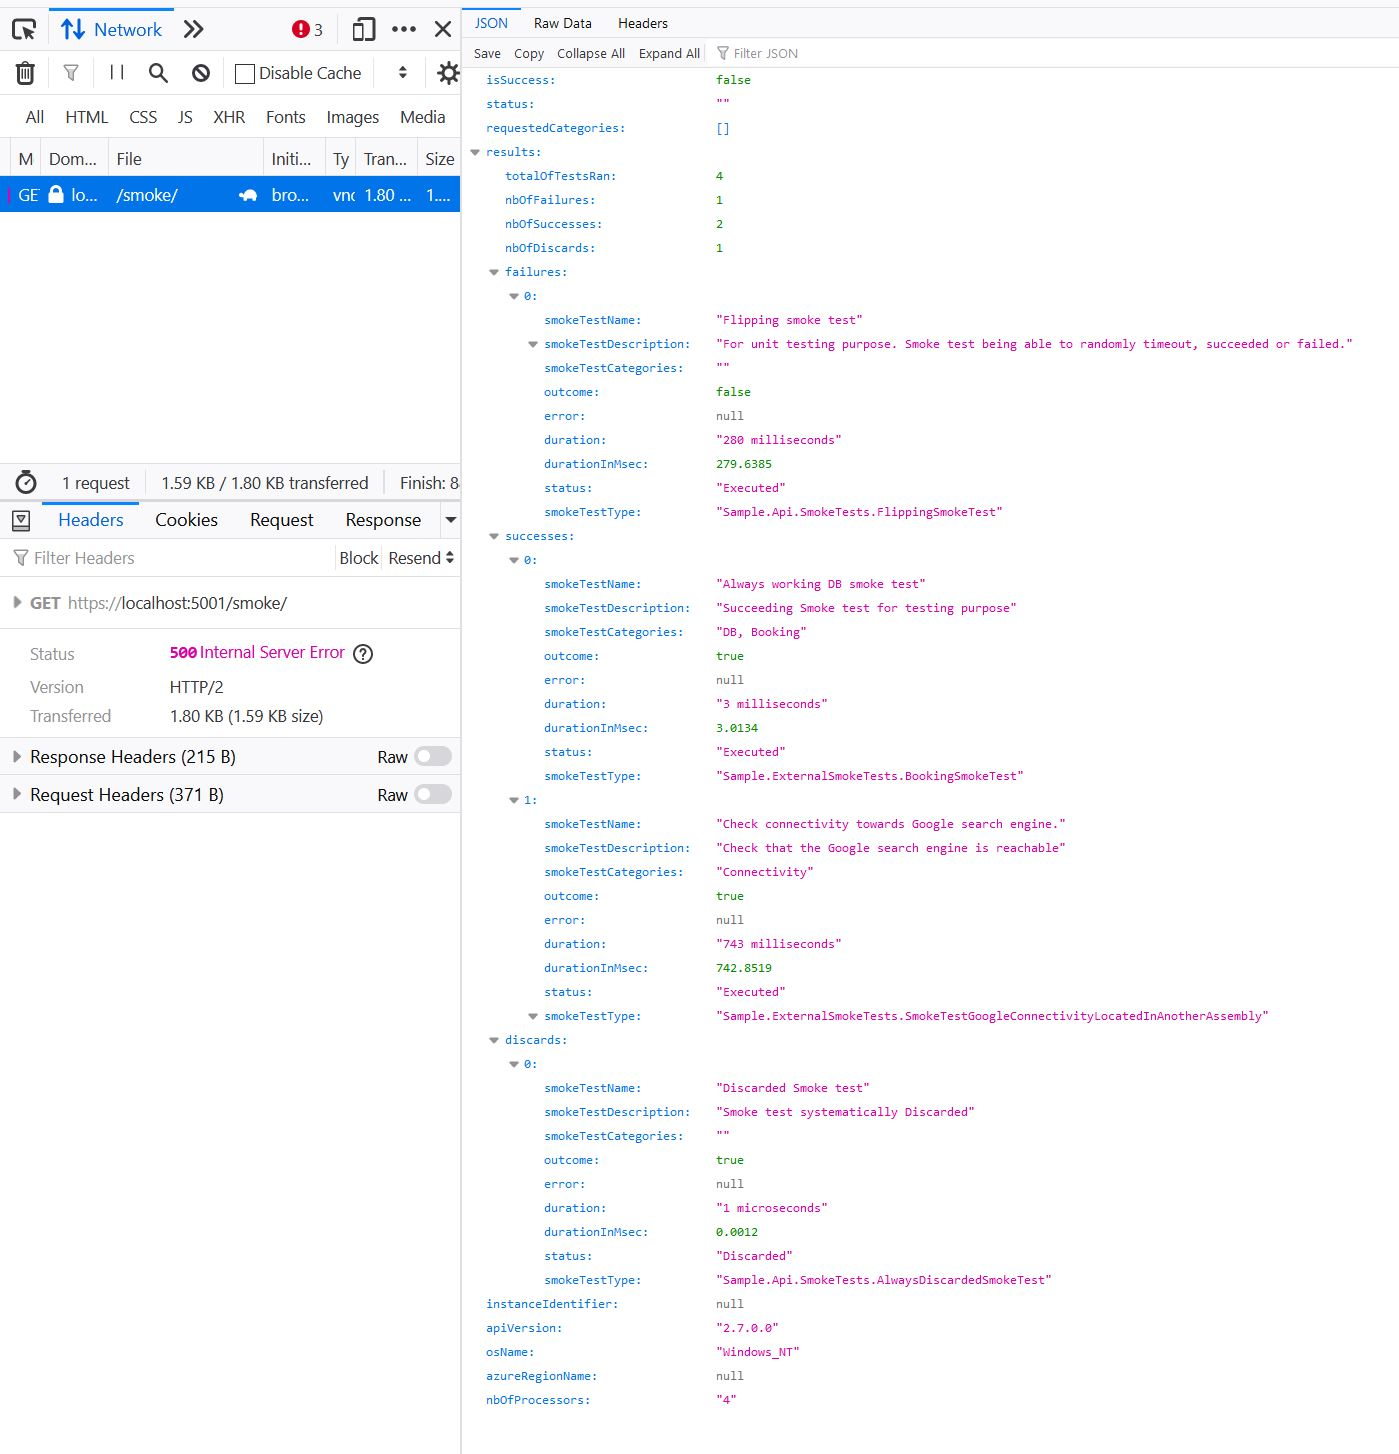
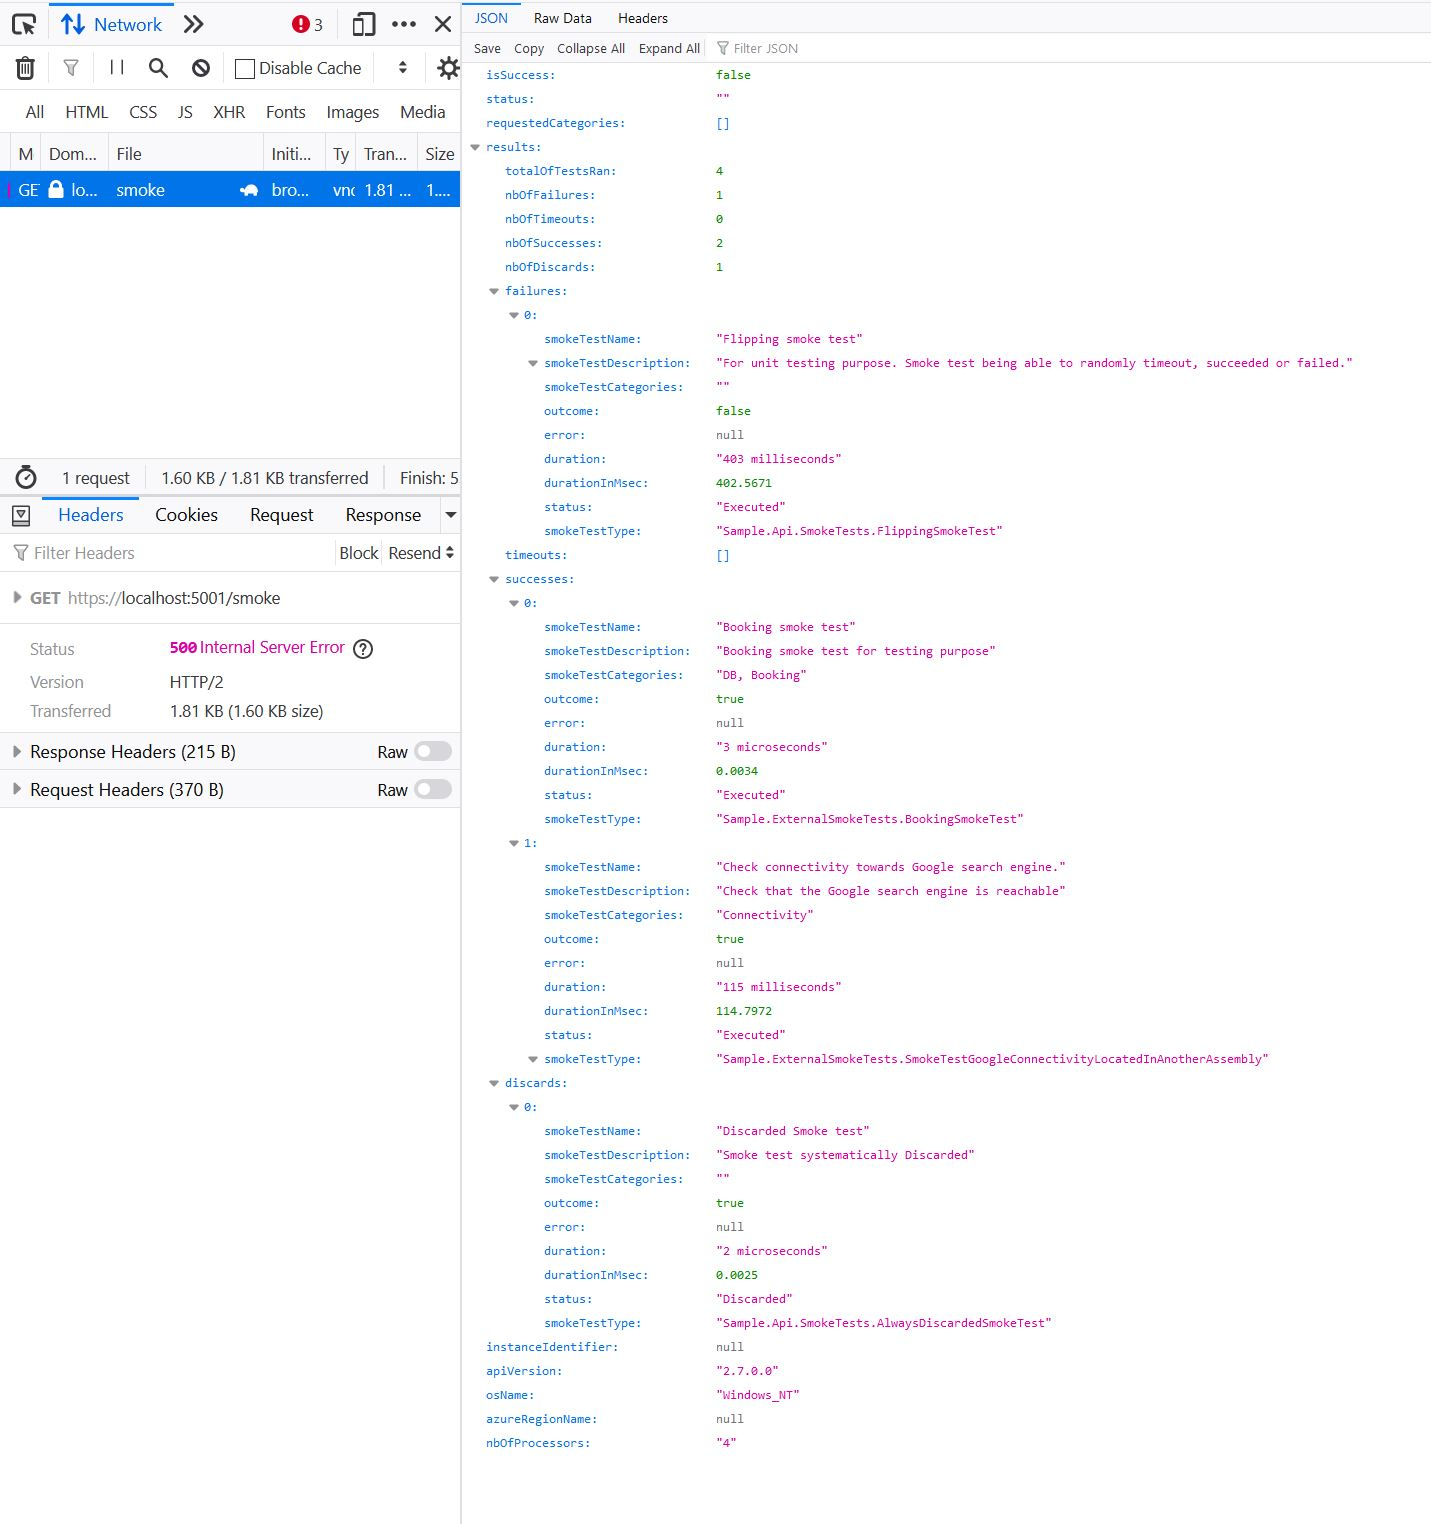
Add a "Timeout" status and category for the reporting. Ensure the type fullname is returned in all cases (Success, Failure, timeout, Discard)

Changed region(s): [[0.0, 0.0, 0.9528, 0.9904], [0.2459, 0.4642, 0.3381, 0.5571]]

diff --git a/SmokeMe.Tests/Acceptance/SmokeControllerShould.cs b/SmokeMe.Tests/Acceptance/SmokeControllerShould.cs
@@ -8,6 +8,7 @@ using NFluent;
 using NSubstitute;
 using NUnit.Framework;
 using Sample.ExternalSmokeTests;
+using Sample.ExternalSmokeTests.Utilities;
 using SmokeMe.Controllers;
 using SmokeMe.Infra;
 using SmokeMe.Tests.Helpers;
@@ -78,11 +79,12 @@ namespace SmokeMe.Tests.Acceptance
             Check.That(reportDto.Status).IsEqualTo("One or more smoke tests have timeout (global timeout is: 5 seconds)");
             Check.That(reportDto.Results.TotalOfTestsRan).IsEqualTo(2);
             Check.That(reportDto.Results.NbOfSuccesses).IsEqualTo(1);
-            Check.That(reportDto.Results.NbOfFailures).IsEqualTo(1);
+            Check.That(reportDto.Results.NbOfFailures).IsEqualTo(0);
+            Check.That(reportDto.Results.NbOfTimeouts).IsEqualTo(1);
 
-            Check.That(reportDto.Results.Failures[0].Outcome).IsFalse();
-            Check.That(reportDto.Results.Failures[0].Duration).IsEqualTo("timeout");
-            Check.That(reportDto.Results.Failures[0].DurationInMsec).IsNull();
+            Check.That(reportDto.Results.Timeouts[0].Outcome).IsFalse();
+            Check.That(reportDto.Results.Timeouts[0].Duration).IsEqualTo("timeout");
+            Check.That(reportDto.Results.Timeouts[0].DurationInMsec).IsNull();
 
             Check.That(reportDto.Results.Successes[0].Outcome).IsTrue();
             Check.That(reportDto.Results.Successes[0].DurationInMsec.Value).IsLessThan(TimeSpan.FromSeconds(2.0).TotalMilliseconds + acceptableDeltaInMsec);
@@ -150,7 +152,7 @@ namespace SmokeMe.Tests.Acceptance
         public async Task Only_Execute_corresponding_SmokeTest_when_specifying_one_Category()
         {
             var configuration = Stub.AConfiguration(true);
-            var serviceProvider = Substitute.For<IServiceProvider>();
+            var serviceProvider = Stub.ACompleteServiceProvider(configuration, new FeatureToggle("featureToggledSmokeTest", false), new FeatureToggle("mustTimeOut", false));
             var smokeTestAutoFinder = new SmokeTestAutoFinder(serviceProvider);
 
             var controller = new SmokeController(configuration, serviceProvider, smokeTestAutoFinder);
@@ -163,7 +165,7 @@ namespace SmokeMe.Tests.Acceptance
             Check.That(reportDto.Results.TotalOfTestsRan).IsEqualTo(1);
 
             // Always positive smoke test after a delay
-            Check.That(reportDto.Results.Successes[0].SmokeTestName).IsEqualTo("Always working DB smoke test");
+            Check.That(reportDto.Results.Successes[0].SmokeTestName).IsEqualTo("Booking smoke test");
             Check.That(reportDto.Results.Successes[0].Outcome).IsTrue();
         }
 
@@ -171,7 +173,9 @@ namespace SmokeMe.Tests.Acceptance
         public async Task Only_Execute_SmokeTest_with_Specified_Categories()
         {
             var configuration = Stub.AConfiguration(true);
-            var serviceProvider = Substitute.For<IServiceProvider>();
+            var serviceProvider = Stub.ACompleteServiceProvider(configuration);
+            serviceProvider.GetService(typeof(IConfiguration)).Returns(configuration);
+
             var smokeTestAutoFinder = new SmokeTestAutoFinder(serviceProvider);
 
             var controller = new SmokeController(configuration, serviceProvider, smokeTestAutoFinder);
@@ -187,7 +191,7 @@ namespace SmokeMe.Tests.Acceptance
             Check.That(reportDto.Results.Failures[0].SmokeTestName).IsEqualTo("Failing on purpose");
             Check.That(reportDto.Results.Failures[0].Outcome).IsFalse();
 
-            Check.That(reportDto.Results.Successes[0].SmokeTestName).IsEqualTo("Always working DB smoke test");
+            Check.That(reportDto.Results.Successes[0].SmokeTestName).IsEqualTo("Booking smoke test");
             Check.That(reportDto.Results.Successes[0].Outcome).IsTrue();
         }
 
@@ -195,7 +199,7 @@ namespace SmokeMe.Tests.Acceptance
         public async Task Return_NotImplemented_501_with_proper_didactic_message_when_specifying_undeclared_Category()
         {
             var configuration = Stub.AConfiguration(true);
-            var serviceProvider = Substitute.For<IServiceProvider>();
+            var serviceProvider = Stub.ACompleteServiceProvider(configuration);
             var smokeTestAutoFinder = new SmokeTestAutoFinder(serviceProvider);
 
             var controller = new SmokeController(configuration, serviceProvider, smokeTestAutoFinder);
@@ -214,7 +218,7 @@ namespace SmokeMe.Tests.Acceptance
         public async Task Return_NotImplemented_501_with_proper_didactic_message_when_specifying_multiple_undeclared_Categories()
         {
             var configuration = Stub.AConfiguration(true);
-            var serviceProvider = Substitute.For<IServiceProvider>();
+            var serviceProvider = Stub.ACompleteServiceProvider(configuration);
             var smokeTestAutoFinder = new SmokeTestAutoFinder(serviceProvider);
 
             var controller = new SmokeController(configuration, serviceProvider, smokeTestAutoFinder);
@@ -232,7 +236,7 @@ namespace SmokeMe.Tests.Acceptance
         public async Task Not_run_SmokeTests_with_Ignore_Attribute()
         {
             var configuration = Stub.AConfiguration(true);
-            var serviceProvider = Substitute.For<IServiceProvider>();
+            var serviceProvider = Stub.ACompleteServiceProvider(configuration);
             var smokeTestAutoFinder = new SmokeTestAutoFinder(serviceProvider);
 
             var controller = new SmokeController(configuration, serviceProvider, smokeTestAutoFinder);
@@ -250,7 +254,7 @@ namespace SmokeMe.Tests.Acceptance
         public async Task Publish_the_executed_SmokeTestCategories_when_specified_by_the_client()
         {
             var configuration = Stub.AConfiguration(true);
-            var serviceProvider = Substitute.For<IServiceProvider>();
+            var serviceProvider = Stub.ACompleteServiceProvider(configuration);
             var smokeTestAutoFinder = new SmokeTestAutoFinder(serviceProvider);
 
             var controller = new SmokeController(configuration, serviceProvider, smokeTestAutoFinder);
@@ -268,7 +272,9 @@ namespace SmokeMe.Tests.Acceptance
         public async Task Publish_the_Categories_of_every_executed_SmokeTest_when_existing()
         {
             var configuration = Stub.AConfiguration(true);
-            var serviceProvider = Substitute.For<IServiceProvider>();
+            var serviceProvider = Stub.ACompleteServiceProvider(configuration);
+            serviceProvider.GetService(typeof(IConfiguration)).Returns(configuration);
+
             var smokeTestAutoFinder = new SmokeTestAutoFinder(serviceProvider);
 
             var controller = new SmokeController(configuration, serviceProvider, smokeTestAutoFinder);
@@ -281,34 +287,41 @@ namespace SmokeMe.Tests.Acceptance
             Check.That(reportDto.Results.TotalOfTestsRan).IsEqualTo(6);
             Check.That(reportDto.RequestedCategories).IsEmpty();
 
-            Check.That(reportDto.Results.Failures.Select(x => x.SmokeTestName)).ContainsExactly("Failing on purpose", "Feature toggled test", "Throwing exception after a delay", "Check connectivity towards Google search engine.");
-            Check.That(reportDto.Results.Successes.Select(x => x.SmokeTestName)).ContainsExactly("Always positive smoke test after a delay", "Always working DB smoke test");
-            
-            Check.That(reportDto.Results.Failures.Select(x => x.SmokeTestCategories)).ContainsExactly("FailingSaMere", "", "", "Connectivity");
+            Check.That(reportDto.Results.Failures.Select(x => x.SmokeTestName)).ContainsExactly("Failing on purpose", "Throwing exception after a delay", "Check connectivity towards Google search engine.");
+            Check.That(reportDto.Results.Successes.Select(x => x.SmokeTestName)).ContainsExactly("Always positive smoke test after a delay", "Booking smoke test");
+            Check.That(reportDto.Results.Discards.Select(x => x.SmokeTestName)).ContainsExactly("Feature toggled test");
+
+            Check.That(reportDto.Results.Failures.Select(x => x.SmokeTestCategories)).ContainsExactly("FailingSaMere", "", "Connectivity");
             Check.That(reportDto.Results.Successes.Select(x => x.SmokeTestCategories)).ContainsExactly("Tests", "DB, Booking");
+            Check.That(reportDto.Results.Discards.Select(x => x.SmokeTestCategories)).ContainsExactly("");
         }
 
         [Test]
-        public async Task Publish_the_Type_FullName_of_every_SmokeTest()
+        public async Task Publish_the_Type_FullName_of_every_SmokeTest_even_when_timeout()
         {
-            var configuration = Stub.AConfiguration(true);
-            var serviceProvider = Stub.FeatureToggles(new FeatureToggle("featureToggledSmokeTest", false));
+            var configuration = Stub.AConfiguration(true, globalTimeoutInMsec: 500);
+            var serviceProvider = Stub.ACompleteServiceProvider(configuration, new FeatureToggle("featureToggledSmokeTest", false), new FeatureToggle("mustTimeOut", true));
             var smokeTestAutoFinder = new SmokeTestAutoFinder(serviceProvider);
 
             var controller = new SmokeController(configuration, serviceProvider, smokeTestAutoFinder);
 
             var response = await controller.ExecuteSmokeTests();
 
-            response.CheckIsError<SmokeTestsSessionReportDto>(HttpStatusCode.InternalServerError);
+            response.CheckIsError<SmokeTestsSessionReportDto>(HttpStatusCode.GatewayTimeout);
             var reportDto = response.ExtractValue<SmokeTestsSessionReportDto>();
 
             Check.That(reportDto.Results.TotalOfTestsRan).IsEqualTo(6);
             Check.That(reportDto.Results.NbOfFailures).IsEqualTo(3);
-            Check.That(reportDto.Results.NbOfSuccesses).IsEqualTo(2);
+            Check.That(reportDto.Results.NbOfSuccesses).IsEqualTo(1);
             Check.That(reportDto.Results.NbOfDiscards).IsEqualTo(1);
+            Check.That(reportDto.Results.NbOfTimeouts).IsEqualTo(1);
+
+            /// Booking smoke test must have timeout
+            Check.That(reportDto.Results.Timeouts[0].SmokeTestType).IsEqualTo(typeof(BookingSmokeTest).FullName);
+            Check.That(reportDto.Results.Timeouts[0].Status).IsEqualTo(Status.Timeout);
 
             Check.That(reportDto.Results.Failures.Select(x => x.SmokeTestType)).ContainsExactly(typeof(AlwaysFailingSmokeTest).FullName, typeof(SmokeTestThrowingAnAccessViolationException).FullName, typeof(SmokeTestGoogleConnectivityLocatedInAnotherAssembly).FullName);
-            Check.That(reportDto.Results.Successes.Select(x => x.SmokeTestType)).ContainsExactly(typeof(AlwaysPositiveSmokeTest).FullName, typeof(BookingSmokeTest).FullName);
+            Check.That(reportDto.Results.Successes.Select(x => x.SmokeTestType)).ContainsExactly(typeof(AlwaysPositiveSmokeTest).FullName);
             Check.That(reportDto.Results.Discards.Select(x => x.SmokeTestType)).ContainsExactly(typeof(FeatureToggledAlwaysPositiveSmokeTest).FullName);
         }
 
@@ -316,7 +329,7 @@ namespace SmokeMe.Tests.Acceptance
         public async Task Be_able_to_discard_Test_execution_when_Indicated_with_MustBeDiscarded_set_to_true()
         {
             var configuration = Stub.AConfiguration(true);
-            var serviceProvider = Stub.FeatureToggles(new FeatureToggle("featureToggledSmokeTest", false));
+            var serviceProvider = Stub.ACompleteServiceProvider(configuration, new FeatureToggle("featureToggledSmokeTest", false), new FeatureToggle("mustTimeOut", false));
 
             var smokeTestProvider = Stub.ASmokeTestProvider(new AlwaysPositiveSmokeTest(TimeSpan.FromMilliseconds(50)).WithoutCategory(), new FeatureToggledAlwaysPositiveSmokeTest(serviceProvider.GetService(typeof(IToggleFeatures)) as IToggleFeatures, TimeSpan.FromMilliseconds(50)).WithoutCategory());
 
@@ -339,7 +352,7 @@ namespace SmokeMe.Tests.Acceptance
 
         private static void ForceTheLoadingOfTheSampleExternalSmokeTestsAssembly()
         {
-            new BookingSmokeTest();
+            new BookingSmokeTest(Substitute.For<IToggleFeatures>(), Substitute.For<IConfiguration>());
         }
     }
 }

diff --git a/SmokeMe/SmokeTestResultWithMetaData.cs b/SmokeMe/SmokeTestResultWithMetaData.cs
@@ -49,8 +49,10 @@ namespace SmokeMe
         /// <param name="smokeTestDescription">Description of the smoke test.</param>
         /// <param name="smokeTestCategories"></param>
         /// <param name="discarded"></param>
+        /// <param name="smokeTestType"></param>
+        /// <param name="status"></param>
         private SmokeTestResultWithMetaData(SmokeTestResult smokeTestResult, TimeSpan? duration, string smokeTestName, string smokeTestDescription,
-            string[] smokeTestCategories, bool? discarded, string smokeTestType)
+            string[] smokeTestCategories, bool? discarded, string smokeTestType, Status? status)
         {
             SmokeTestResult = smokeTestResult;
             Duration = duration;
@@ -59,18 +61,25 @@ namespace SmokeMe
             SmokeTestCategories = smokeTestCategories;
             SmokeTestType = smokeTestType;
 
-            if (discarded.HasValue && discarded.Value == true)
+            if (status.HasValue && status== Status.Timeout)
             {
-                Status = Status.Discarded;
+                Status = Status.Timeout;
             }
             else
             {
-                Status = Status.Executed;
+                if (discarded.HasValue && discarded.Value == true)
+                {
+                    Status = Status.Discarded;
+                }
+                else
+                {
+                    Status = Status.Executed;
+                }
             }
         }
 
         public SmokeTestResultWithMetaData(SmokeTestResult smokeTestResult, TimeSpan? duration, SmokeTestInstanceWithMetaData smokeTestInstanceWithMetaData, string smokeTestType,
-            bool? discarded = null) : this(smokeTestResult, duration, smokeTestInstanceWithMetaData.SmokeTest.SmokeTestName, smokeTestInstanceWithMetaData.SmokeTest.Description, smokeTestInstanceWithMetaData.Categories, discarded, smokeTestType)
+            bool? discarded = null, Status? status = null) : this(smokeTestResult, duration, smokeTestInstanceWithMetaData.SmokeTest.SmokeTestName, smokeTestInstanceWithMetaData.SmokeTest.Description, smokeTestInstanceWithMetaData.Categories, discarded, smokeTestType, status)
         {
         }
 

diff --git a/Samples/Sample.ExternalSmokeTests/BookingSmokeTest.cs b/Samples/Sample.ExternalSmokeTests/BookingSmokeTest.cs
@@ -1,4 +1,7 @@
-using System.Threading.Tasks;
+using System;
+using System.Threading.Tasks;
+using Microsoft.Extensions.Configuration;
+using Sample.ExternalSmokeTests.Utilities;
 using SmokeMe;
 
 namespace Sample.ExternalSmokeTests
@@ -7,12 +10,27 @@ namespace Sample.ExternalSmokeTests
     [Category("Booking")]
     public class BookingSmokeTest : SmokeTest
     {
-        public override string SmokeTestName => "Always working DB smoke test";
-        public override string Description => "Succeeding Smoke test for testing purpose";
+        private readonly IToggleFeatures _featureToggles;
+        private readonly IConfiguration _configuration;
+        public override string SmokeTestName => "Booking smoke test";
+        public override string Description => "Booking smoke test for testing purpose";
 
-        public override Task<SmokeTestResult> Scenario()
+        public BookingSmokeTest(IToggleFeatures featureToggles, IConfiguration configuration)
         {
-            return Task.FromResult(new SmokeTestResult(true));
+            _featureToggles = featureToggles;
+            _configuration = configuration;
+        }
+
+        public override async Task<SmokeTestResult> Scenario()
+        {
+            if (_featureToggles.IsEnabled("mustTimeOut"))
+            {
+                var timeoutInMsec = int.Parse(_configuration[Constants.GlobaltimeoutinmsecConfigurationKey]);
+
+                await Task.Delay(TimeSpan.FromMilliseconds(timeoutInMsec + 100));
+            }
+
+            return new SmokeTestResult(true);
         }
     }
 }

diff --git a/SmokeMe.Tests/Helpers/Stub.cs b/SmokeMe.Tests/Helpers/Stub.cs
@@ -3,6 +3,7 @@ using Diverse;
 using Microsoft.Extensions.Configuration;
 using NSubstitute;
 using Sample.Api.FakeDomain;
+using Sample.ExternalSmokeTests.Utilities;
 using SmokeMe.Tests.Acceptance;
 
 namespace SmokeMe.Tests.Helpers
@@ -51,7 +52,7 @@ namespace SmokeMe.Tests.Helpers
             return serviceProvider;
         }
 
-        public static IServiceProvider FeatureToggles(params FeatureToggle[] featureToggles)
+        private static IServiceProvider FeatureToggles(params FeatureToggle[] featureToggles)
         {
             var serviceProvider = Substitute.For<IServiceProvider>();
             var toggleFeatures = Substitute.For<IToggleFeatures>();
@@ -62,6 +63,15 @@ namespace SmokeMe.Tests.Helpers
             
             serviceProvider.GetService(typeof(IToggleFeatures)).Returns(toggleFeatures);
             return serviceProvider;
+        }
+
+        public static IServiceProvider ACompleteServiceProvider(IConfiguration configuration, params FeatureToggle[] featureToggles)
+        {
+            var aCompleteServiceProvider = Stub.FeatureToggles(featureToggles);
+
+            aCompleteServiceProvider.GetService(typeof(IConfiguration)).Returns(configuration);
+
+            return aCompleteServiceProvider;
         }
     }
 }

diff --git a/SmokeMe/Infra/SmokeTestsResults.cs b/SmokeMe/Infra/SmokeTestsResults.cs
@@ -9,12 +9,12 @@ namespace SmokeMe.Infra
         public int TotalOfTestsRan => _allResults.Length;
 
         public int NbOfFailures => Failures.Length;
-
+        public int NbOfTimeouts => Timeouts.Length;
         public int NbOfSuccesses => Successes.Length;
-
         public int NbOfDiscards => Discards.Length;
 
-        public SmokeTestResultWithMetaDataDto[] Failures => _allResults.Where(x => x.Outcome == false).ToArray();
+        public SmokeTestResultWithMetaDataDto[] Failures => _allResults.Where(x => x.Outcome == false && x.Status != Status.Timeout).ToArray();
+        public SmokeTestResultWithMetaDataDto[] Timeouts => _allResults.Where(x => x.Outcome == false && x.Status == Status.Timeout).ToArray();
         public SmokeTestResultWithMetaDataDto[] Successes => _allResults.Where(x => x.Outcome == true && x.Status != Status.Discarded).ToArray();
         public SmokeTestResultWithMetaDataDto[] Discards => _allResults.Where(x => x.Outcome == true && x.Status == Status.Discarded).ToArray();
 

diff --git a/SmokeMe/SmokeTestRunner.cs b/SmokeMe/SmokeTestRunner.cs
@@ -59,7 +59,7 @@ namespace SmokeMe
 
             var timeoutSmokeTests = smokeTestsWithMetaData.Where(x => !completedIdentifiers.Contains(x.SmokeTestIdentifier.Value));
 
-            var timeoutResultWithSomeMetaData = timeoutSmokeTests.Select(x => new SmokeTestResultWithMetaData(new SmokeTestResult(false), null, x, smokeTestType:x.GetType().Name));
+            var timeoutResultWithSomeMetaData = timeoutSmokeTests.Select(x => new SmokeTestResultWithMetaData(new SmokeTestResult(false), null, x, smokeTestType:x.SmokeTest.GetType().FullName, status: Status.Timeout));
 
             var timeoutAndCompletedResultsWithMetadata = timeoutResultWithSomeMetaData.Concat(completedTestsResultWithMetaData).ToArray();
 

diff --git a/Samples/Sample.ExternalSmokeTests/Utilities/AlwaysDisabledToggleFeatureManager.cs b/Samples/Sample.ExternalSmokeTests/Utilities/AlwaysDisabledToggleFeatureManager.cs
@@ -1,0 +1,10 @@
+namespace Sample.ExternalSmokeTests.Utilities
+{
+    public class AlwaysDisabledToggleFeatureManager : IToggleFeatures
+    {
+        public bool IsEnabled(string featureName)
+        {
+            return false;
+        }
+    }
+}

diff --git a/Samples/Sample.31.Api/Startup.cs b/Samples/Sample.31.Api/Startup.cs
@@ -43,6 +43,8 @@ namespace Sample.Api
 
             services.AddVersioning();
 
+            services.AddTransient<IToggleFeatures, AlwaysDisabledToggleFeatureManager>();
+
             Fuzzer.Log +=obj =>
             {
             };

diff --git a/SmokeMe.Tests/SmokeTests/FeatureToggledAlwaysPositiveSmokeTest.cs b/SmokeMe.Tests/SmokeTests/FeatureToggledAlwaysPositiveSmokeTest.cs
@@ -1,6 +1,7 @@
 using System;
 using System.Threading;
 using System.Threading.Tasks;
+using Sample.ExternalSmokeTests.Utilities;
 using SmokeMe.Tests.Helpers;
 
 namespace SmokeMe.Tests.SmokeTests

diff --git a/Samples/Sample.ExternalSmokeTests/Utilities/IToggleFeatures.cs b/Samples/Sample.ExternalSmokeTests/Utilities/IToggleFeatures.cs
@@ -1,4 +1,4 @@
-namespace SmokeMe.Tests.Helpers
+namespace Sample.ExternalSmokeTests.Utilities
 {
     public interface IToggleFeatures
     {

diff --git a/Samples/Sample.ExternalSmokeTests/Utilities/FeatureToggle.cs b/Samples/Sample.ExternalSmokeTests/Utilities/FeatureToggle.cs
@@ -1,4 +1,4 @@
-namespace SmokeMe.Tests.Helpers
+namespace Sample.ExternalSmokeTests.Utilities
 {
     public class FeatureToggle
     {

diff --git a/SmokeMe/Status.cs b/SmokeMe/Status.cs
@@ -3,6 +3,7 @@ namespace SmokeMe
     public enum Status
     {
         Executed,
+        Timeout,
         Discarded
     }
 }
